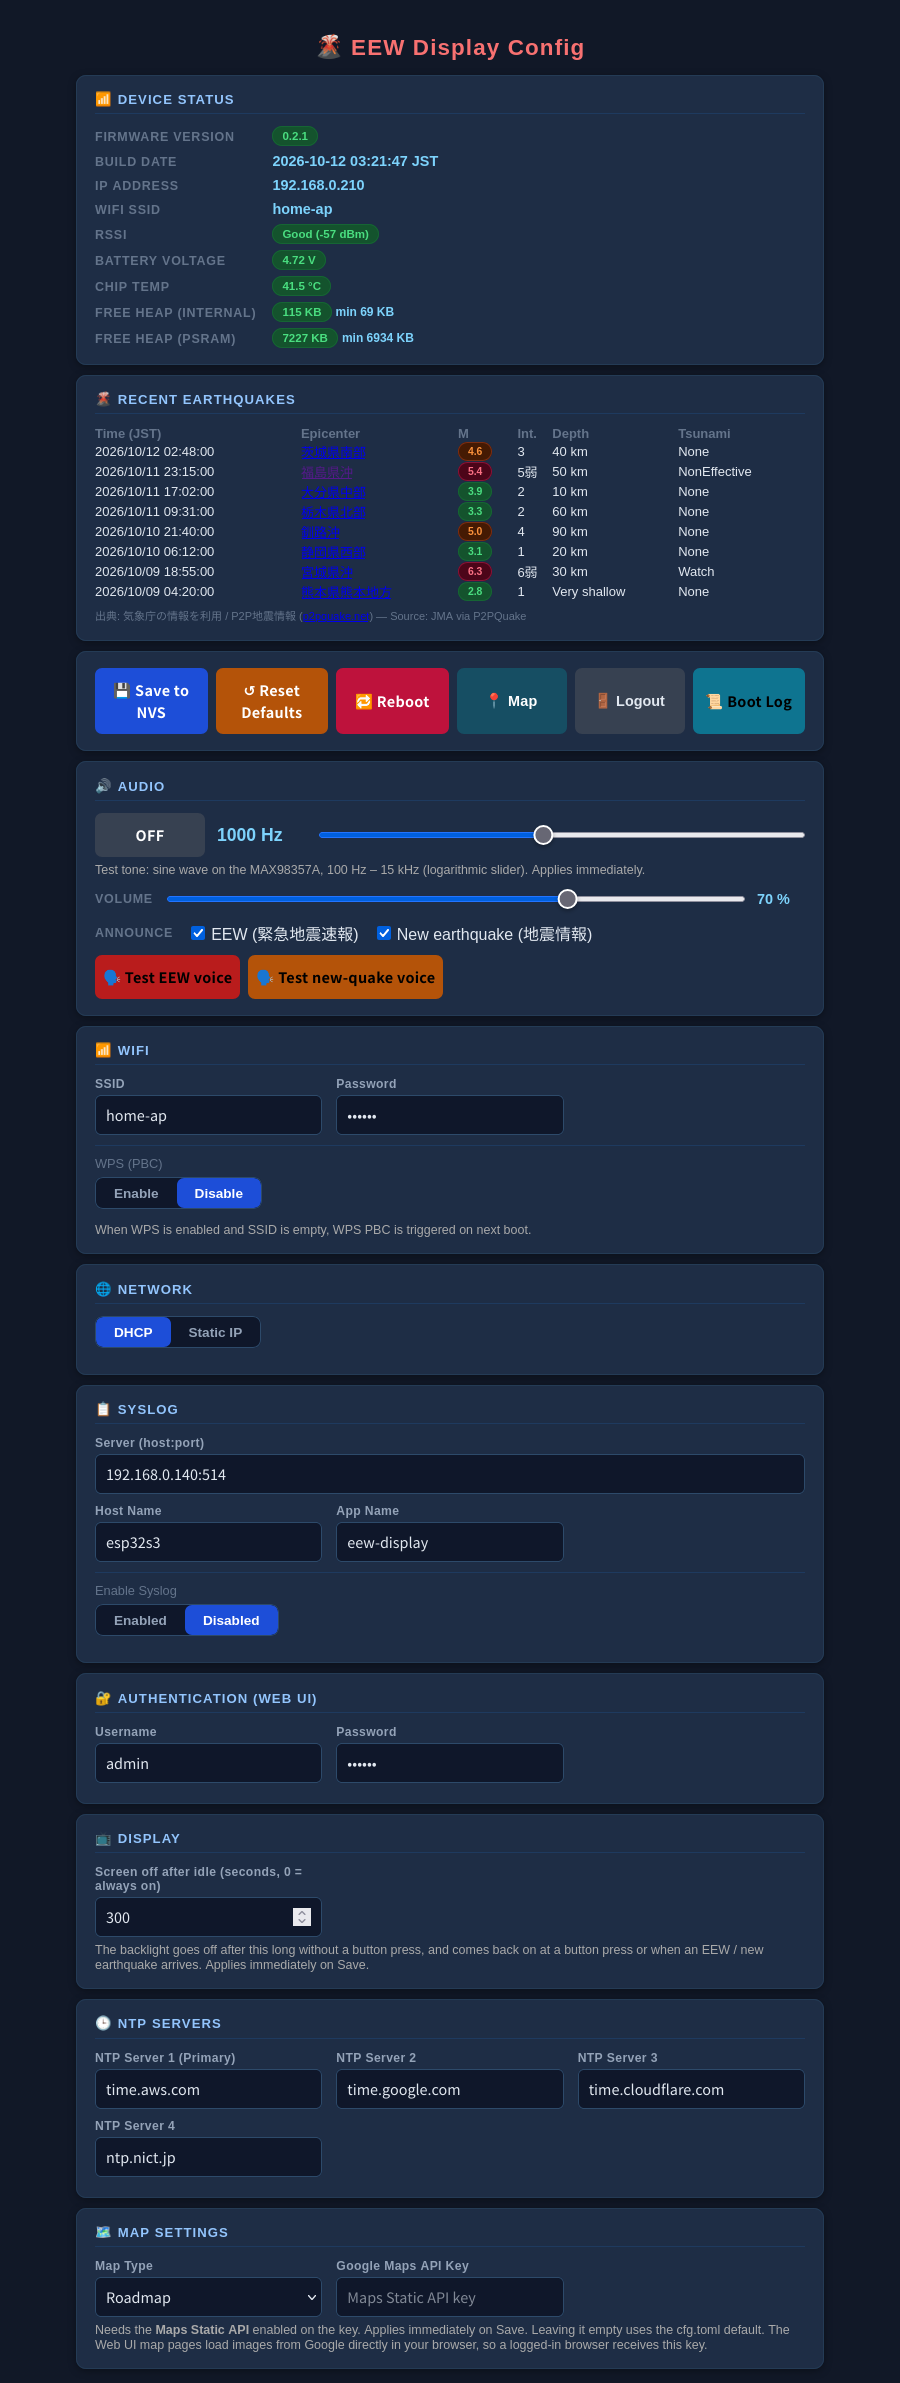
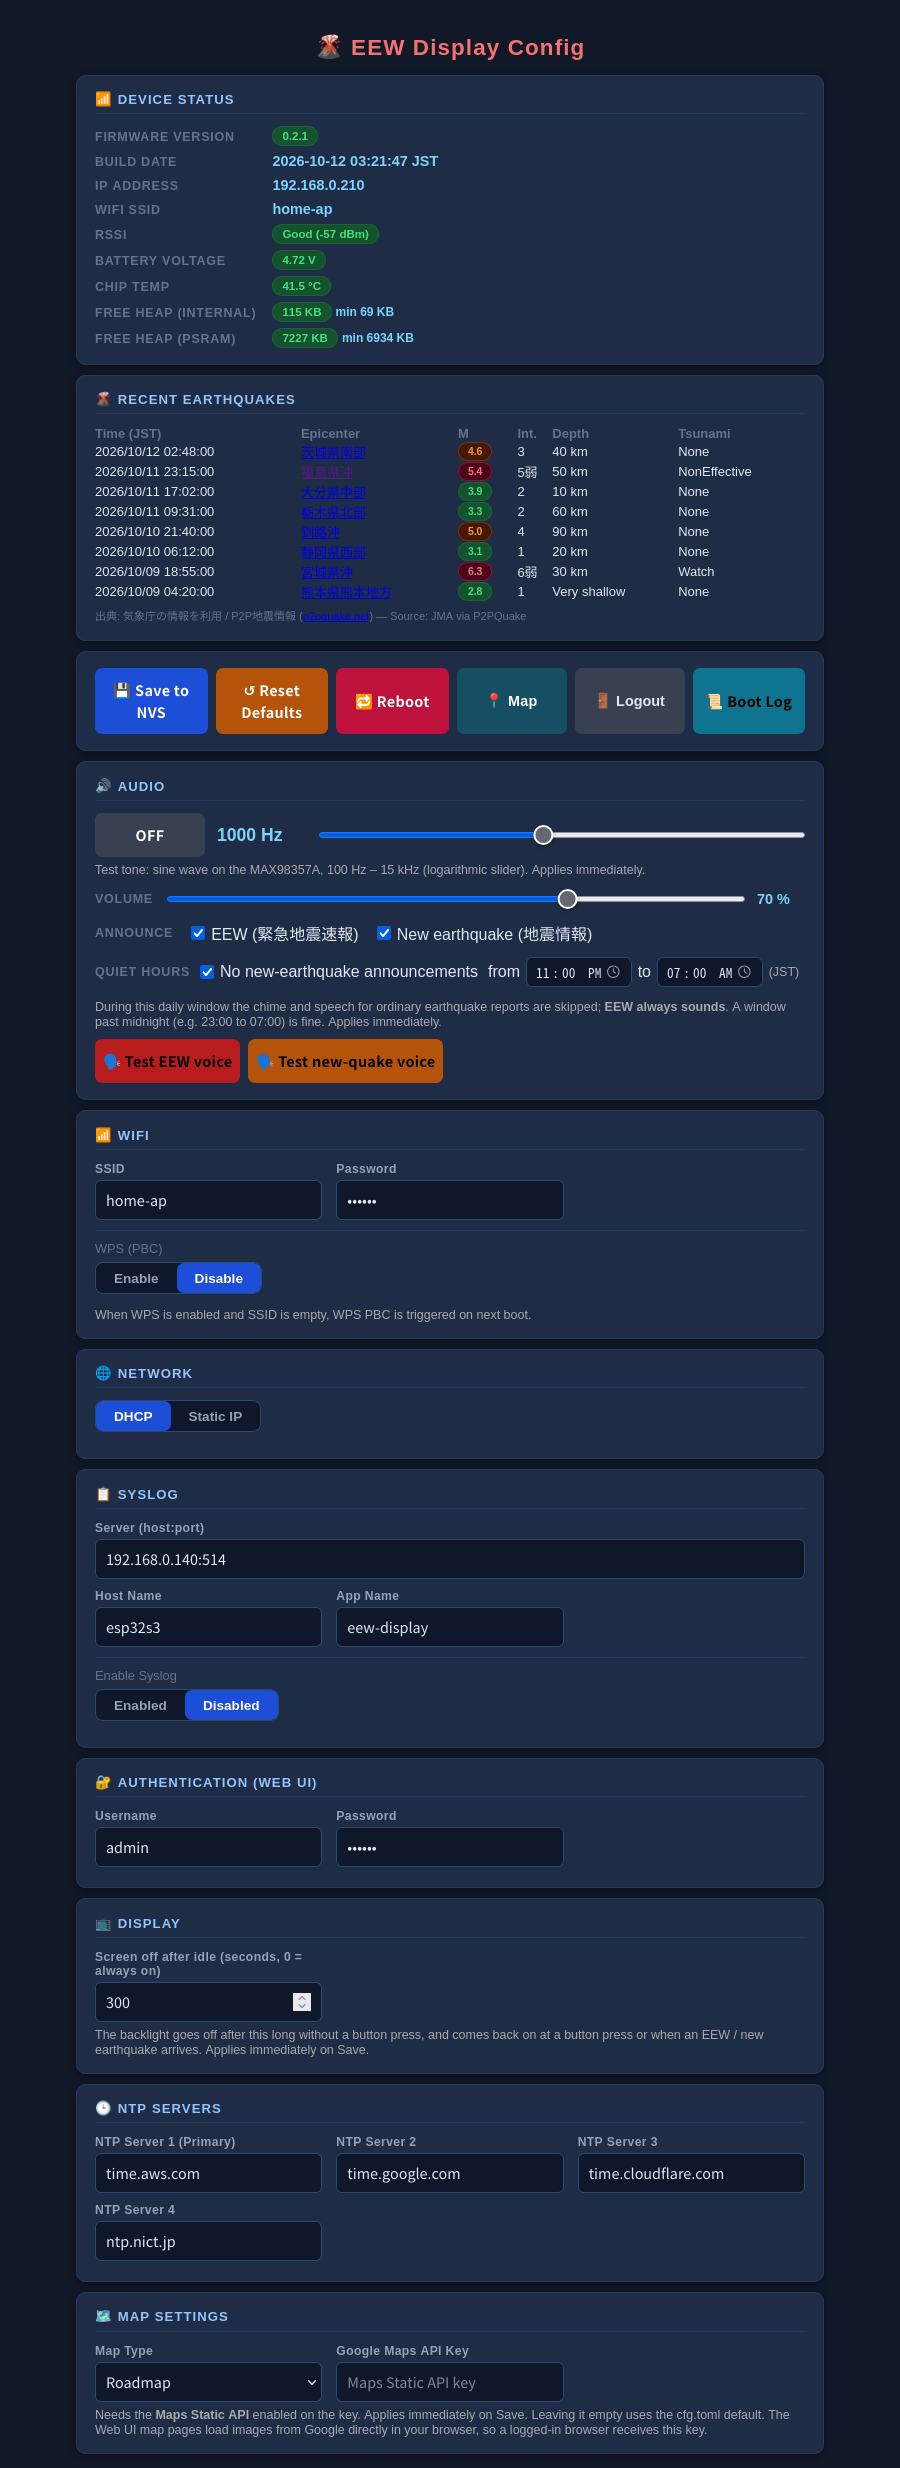
Add quiet hours for new-earthquake announcements (v0.2.2)
Daily JST window (Web UI / cfg.toml / NVS) muting ordinary announcements;
EEWs always sound. Update README, Web UI screenshots and capture script.

diff --git a/src/httpserver.rs b/src/httpserver.rs
@@ -39,6 +39,9 @@ pub struct NvsConfig {
     pub audio_volume: String,
     pub voice_eew: String,
     pub voice_new: String,
+    pub quiet_enable: String,
+    pub quiet_start: String,
+    pub quiet_end: String,
     pub wps_enable:    String,
     pub ntp_server1:   String,
     pub ntp_server2:   String,
@@ -108,6 +111,9 @@ fn nvs_write_all(cfg: &NvsConfig) -> bool {
             ("audio_volume", &cfg.audio_volume),
             ("voice_eew", &cfg.voice_eew),
             ("voice_new", &cfg.voice_new),
+            ("quiet_enable", &cfg.quiet_enable),
+            ("quiet_start", &cfg.quiet_start),
+            ("quiet_end", &cfg.quiet_end),
             ("wps_enable",    &cfg.wps_enable),
             ("ntp_server1",   &cfg.ntp_server1),
             ("ntp_server2",   &cfg.ntp_server2),
@@ -219,6 +225,9 @@ pub fn load_config(defaults: NvsConfig) -> NvsConfig {
         audio_volume: or(nvs_read("audio_volume"), &defaults.audio_volume),
         voice_eew: or(nvs_read("voice_eew"), &defaults.voice_eew),
         voice_new: or(nvs_read("voice_new"), &defaults.voice_new),
+        quiet_enable: or(nvs_read("quiet_enable"), &defaults.quiet_enable),
+        quiet_start: or(nvs_read("quiet_start"), &defaults.quiet_start),
+        quiet_end: or(nvs_read("quiet_end"), &defaults.quiet_end),
         wps_enable:    or(nvs_read("wps_enable"),    &defaults.wps_enable),
         ntp_server1:   or(nvs_read("ntp_server1"),   &defaults.ntp_server1),
         ntp_server2:   or(nvs_read("ntp_server2"),   &defaults.ntp_server2),
@@ -549,6 +558,17 @@ hr{{border:none;border-top:1px solid #1e3a5f;margin:10px 0}}
     <label style="display:flex;align-items:center;gap:6px;cursor:pointer"><input type="checkbox" id="notify-eew" onchange="notifySend()"> EEW (緊急地震速報)</label>
     <label style="display:flex;align-items:center;gap:6px;cursor:pointer"><input type="checkbox" id="notify-new" onchange="notifySend()"> New earthquake (地震情報)</label>
   </div>
+  <div id="quiet-row" style="display:none;margin-top:12px;gap:10px;flex-wrap:wrap;align-items:center">
+    <span class="stat-key">Quiet hours</span>
+    <label style="display:flex;align-items:center;gap:6px;cursor:pointer"><input type="checkbox" id="quiet-on" onchange="quietSend()"> No new-earthquake announcements</label>
+    <span style="display:flex;align-items:center;gap:6px">from
+      <input type="time" id="quiet-start" value="23:00" onchange="quietSend()" style="background:#0f172a;color:#e2e8f0;border:1px solid #2d4a6a;border-radius:6px;padding:4px 6px">
+      to
+      <input type="time" id="quiet-end" value="07:00" onchange="quietSend()" style="background:#0f172a;color:#e2e8f0;border:1px solid #2d4a6a;border-radius:6px;padding:4px 6px">
+      <span style="font-size:.78em;color:#aaa">(JST)</span></span>
+    <span id="quiet-now" class="badge badge-warn" style="display:none">quiet now</span>
+    <p style="width:100%;font-size:.78em;color:#aaa;margin:.2em 0 0">During this daily window the chime and speech for ordinary earthquake reports are skipped; <b>EEW always sounds</b>. A window past midnight (e.g. 23:00 to 07:00) is fine. Applies immediately.</p>
+  </div>
   <div id="voice-row" style="display:none;margin-top:10px;gap:8px;flex-wrap:wrap">
     <button type="button" class="btn" style="background:#b91c1c;flex:0 0 auto" onclick="toneSend('speak=eew')">&#x1F5E3; Test EEW voice</button>
     <button type="button" class="btn" style="background:#b45309;flex:0 0 auto" onclick="toneSend('speak=new')">&#x1F5E3; Test new-quake voice</button>
@@ -816,6 +836,11 @@ function notifySend() {{
   toneSend('notify_eew=' + document.getElementById('notify-eew').checked +
            '&notify_new=' + document.getElementById('notify-new').checked);
 }}
+function quietSend() {{
+  toneSend('quiet_enable=' + document.getElementById('quiet-on').checked +
+           '&quiet_start=' + document.getElementById('quiet-start').value +
+           '&quiet_end=' + document.getElementById('quiet-end').value);
+}}
 function toneToggle() {{ toneSend('on=' + (!toneOn)); }}
 fetch('/api/tone').then(r => r.json()).then(function(d) {{
   toneShow(d);
@@ -824,6 +849,11 @@ fetch('/api/tone').then(r => r.json()).then(function(d) {{
   if (d.running) {{
     document.getElementById('notify-eew').checked = d.notify_eew;
     document.getElementById('notify-new').checked = d.notify_new;
+    document.getElementById('quiet-on').checked = d.quiet_enable;
+    if (document.activeElement.id !== 'quiet-start') document.getElementById('quiet-start').value = d.quiet_start;
+    if (document.activeElement.id !== 'quiet-end') document.getElementById('quiet-end').value = d.quiet_end;
+    document.getElementById('quiet-now').style.display = d.quiet_now ? 'inline-block' : 'none';
+    document.getElementById('quiet-row').style.display = 'flex';
     document.getElementById('notify-row').style.display = 'flex';
     document.getElementById('vol-range').value = d.volume;
     document.getElementById('vol-val').textContent = d.volume + ' %';
@@ -1138,10 +1168,12 @@ pub fn start_http_server(state: ConfigState) -> anyhow::Result<EspHttpServer<'st
 
     // ── GET/POST /api/tone — audio test tone frequency / on-off (requires auth) ──
     fn tone_json() -> String {
-        format!(r#"{{"running":{},"hz":{},"on":{},"min":{},"max":{},"voice":{},"volume":{},"notify_eew":{},"notify_new":{}}}"#,
+        format!(r#"{{"running":{},"hz":{},"on":{},"min":{},"max":{},"voice":{},"volume":{},"notify_eew":{},"notify_new":{},"quiet_enable":{},"quiet_start":"{}","quiet_end":"{}","quiet_now":{}}}"#,
             crate::audio::running(), crate::audio::freq_hz(), crate::audio::enabled(),
             crate::audio::FREQ_MIN_HZ, crate::audio::FREQ_MAX_HZ, crate::voice::available(),
-            crate::audio::volume(), crate::voice::notify_eew(), crate::voice::notify_new())
+            crate::audio::volume(), crate::voice::notify_eew(), crate::voice::notify_new(),
+            crate::voice::quiet_enabled(), crate::voice::fmt_hhmm(crate::voice::quiet_start_min()),
+            crate::voice::fmt_hhmm(crate::voice::quiet_end_min()), crate::voice::quiet_now())
     }
     let state_tg = state.clone();
     server.fn_handler("/api/tone", Method::Get, move |request| {
@@ -1183,6 +1215,24 @@ pub fn start_http_server(state: ConfigState) -> anyhow::Result<EspHttpServer<'st
                 if is_eew { cfg.voice_eew = on.to_string(); } else { cfg.voice_new = on.to_string(); }
                 nvs_write_all(&cfg);
             }
+        }
+        // Quiet hours for new-earthquake announcements (EEW is never muted):
+        // any of quiet_enable / quiet_start / quiet_end ("HH:MM"), stored in NVS.
+        if form.contains_key("quiet_enable") || form.contains_key("quiet_start") || form.contains_key("quiet_end") {
+            let mut cfg = state_tp.config.lock().unwrap();
+            if let Some(v) = form.get("quiet_enable") { cfg.quiet_enable = (v == "true").to_string(); }
+            for (key, slot) in [("quiet_start", 0), ("quiet_end", 1)] {
+                if let Some(v) = form.get(key).and_then(|v| crate::voice::parse_hhmm(v)) {
+                    let t = crate::voice::fmt_hhmm(v);
+                    if slot == 0 { cfg.quiet_start = t; } else { cfg.quiet_end = t; }
+                }
+            }
+            crate::voice::set_quiet(
+                cfg.quiet_enable == "true",
+                crate::voice::parse_hhmm(&cfg.quiet_start).unwrap_or(23 * 60),
+                crate::voice::parse_hhmm(&cfg.quiet_end).unwrap_or(7 * 60),
+            );
+            nvs_write_all(&cfg);
         }
         // Voice volume (percent): applied at once; `save=1` also stores it in NVS.
         if let Some(vol) = form.get("volume").and_then(|v| v.trim().parse::<u32>().ok()) {

diff --git a/src/voice.rs b/src/voice.rs
@@ -15,7 +15,7 @@
 // SPDX-License-Identifier: MIT
 
 use std::ffi::CString;
-use std::sync::atomic::{AtomicBool, Ordering};
+use std::sync::atomic::{AtomicBool, AtomicU32, Ordering};
 use std::sync::OnceLock;
 use log::{info, warn};
 
@@ -62,6 +62,55 @@ pub fn notify_eew() -> bool { NOTIFY_EEW.load(Ordering::Relaxed) }
 pub fn notify_new() -> bool { NOTIFY_NEW.load(Ordering::Relaxed) }
 pub fn set_notify_eew(on: bool) { NOTIFY_EEW.store(on, Ordering::Relaxed); }
 pub fn set_notify_new(on: bool) { NOTIFY_NEW.store(on, Ordering::Relaxed); }
+
+// ─── Quiet hours ─────────────────────────────────────────────────────────────
+// A daily window (JST) in which NEW-EARTHQUAKE announcements are not played.
+// EEWs are never affected: they always sound.
+
+static QUIET_ON: AtomicBool = AtomicBool::new(false);
+/// Start / end of the window in minutes after midnight (JST).
+static QUIET_START: AtomicU32 = AtomicU32::new(23 * 60);
+static QUIET_END: AtomicU32 = AtomicU32::new(7 * 60);
+
+pub fn quiet_enabled() -> bool { QUIET_ON.load(Ordering::Relaxed) }
+pub fn quiet_start_min() -> u32 { QUIET_START.load(Ordering::Relaxed) }
+pub fn quiet_end_min() -> u32 { QUIET_END.load(Ordering::Relaxed) }
+pub fn set_quiet(on: bool, start_min: u32, end_min: u32) {
+    QUIET_START.store(start_min.min(1439), Ordering::Relaxed);
+    QUIET_END.store(end_min.min(1439), Ordering::Relaxed);
+    QUIET_ON.store(on, Ordering::Relaxed);
+}
+
+/// "HH:MM" → minutes after midnight (None if malformed / out of range).
+pub fn parse_hhmm(s: &str) -> Option<u32> {
+    let (h, m) = s.trim().split_once(':')?;
+    let (h, m): (u32, u32) = (h.trim().parse().ok()?, m.trim().parse().ok()?);
+    (h < 24 && m < 60).then_some(h * 60 + m)
+}
+
+/// Minutes → "HH:MM".
+pub fn fmt_hhmm(min: u32) -> String { format!("{:02}:{:02}", min / 60 % 24, min % 60) }
+
+/// Is `minute` (of the day) inside the window [start, end)? A window that runs
+/// past midnight (start > end, e.g. 23:00–07:00) is handled; start == end is an
+/// empty window.
+fn in_window(minute: u32, start: u32, end: u32) -> bool {
+    if start < end { minute >= start && minute < end }
+    else if start > end { minute >= start || minute < end }
+    else { false }
+}
+
+/// true if quiet hours are on and the time of day (JST) is inside the window.
+/// Before the clock has synced (NTP) the time is unknown, so it is NOT quiet:
+/// better an announcement at the wrong hour than a missed one.
+pub fn quiet_now() -> bool {
+    if !quiet_enabled() { return false; }
+    let secs = std::time::SystemTime::now().duration_since(std::time::UNIX_EPOCH)
+        .map(|d| d.as_secs()).unwrap_or(0);
+    if secs < 1_704_067_200 { return false; } // 2024-01-01: the clock is not set yet
+    let minute = ((secs + 9 * 3600) % 86_400 / 60) as u32;
+    in_window(minute, quiet_start_min(), quiet_end_min())
+}
 
 /// true if a voice bank was found and loaded.
 pub fn available() -> bool { BANK.get().is_some() }
@@ -304,9 +353,14 @@ pub fn speak_eew(e: &crate::quake::Eew) {
 }
 
 /// Announce a newly received earthquake: chime + sentence, once (dropped while
-/// an EEW is being played).
+/// an EEW is being played, and during the quiet hours — EEWs ignore those).
 pub fn speak_new(q: &crate::quake::Quake) {
     if !notify_new() { return; }
+    if quiet_now() {
+        info!("[VOICE] quiet hours ({}-{} JST): new-earthquake announcement skipped",
+              fmt_hhmm(quiet_start_min()), fmt_hhmm(quiet_end_min()));
+        return;
+    }
     let v = new_sentence(&q.name, q.mag, q.scale, q.depth, &q.tsunami);
     info!("[VOICE] new-earthquake announcement ({} segments, voice bank: {})", v.len(), available());
     crate::audio::play(v, false);

diff --git a/src/main.rs b/src/main.rs
@@ -78,6 +78,12 @@ pub struct Config {
     voice_eew: &'static str,
     #[default("true")]
     voice_new: &'static str,
+    #[default("false")]
+    quiet_enable: &'static str,
+    #[default("23:00")]
+    quiet_start: &'static str,
+    #[default("07:00")]
+    quiet_end: &'static str,
 }
 
 fn main() {
@@ -117,6 +123,9 @@ fn main() {
         audio_volume:  CONFIG.audio_volume.to_string(),
         voice_eew:     CONFIG.voice_eew.to_string(),
         voice_new:     CONFIG.voice_new.to_string(),
+        quiet_enable:  CONFIG.quiet_enable.to_string(),
+        quiet_start:   CONFIG.quiet_start.to_string(),
+        quiet_end:     CONFIG.quiet_end.to_string(),
         ntp_server1:   CONFIG.ntp_server1.to_string(),
         ntp_server2:   CONFIG.ntp_server2.to_string(),
         ntp_server3:   CONFIG.ntp_server3.to_string(),
@@ -171,6 +180,11 @@ fn main() {
         audio::set_volume(nvs_config.audio_volume.trim().parse().unwrap_or(70));
         voice::set_notify_eew(nvs_config.voice_eew != "false");
         voice::set_notify_new(nvs_config.voice_new != "false");
+        voice::set_quiet(
+            nvs_config.quiet_enable == "true",
+            voice::parse_hhmm(&nvs_config.quiet_start).unwrap_or(23 * 60),
+            voice::parse_hhmm(&nvs_config.quiet_end).unwrap_or(7 * 60),
+        );
         voice::init();
         audio::start(
             peripherals.i2s0,

diff --git a/tools/webui_screenshots/capture.py b/tools/webui_screenshots/capture.py
@@ -82,7 +82,8 @@ def api(eew, view):
         '/api/mapinfo': dict(has_map=True, version=1, center_lat=view[0], center_lon=view[1], center_valid=True, zoom=view[2]),
         '/api/mapkey': dict(api_key='sample', map_type='roadmap'),
         '/api/tone': dict(running=True, hz=1000, on=False, min=100, max=15000, voice=True, volume=70,
-                          notify_eew=True, notify_new=True),
+                          notify_eew=True, notify_new=True,
+                          quiet_enable=True, quiet_start='23:00', quiet_end='07:00', quiet_now=False),
         '/api/boot_log': dict(entries=['#14 PowerOn', '#13 Software', '#12 PowerOn']),
     }
 

diff --git a/README.md b/README.md
@@ -104,6 +104,20 @@ reconnecting, grey = the feed is switched off (`quake_enable`).  The chain is a
 16×16 bitmap kept as a constant in `src/display_pages.rs` (flash, no RAM), drawn
 pixel by pixel in the state colour.
 
+### Quiet hours (new-earthquake announcements)
+
+A daily window, in **JST**, in which ordinary new-earthquake announcements (chime
+and speech) are not played — e.g. 23:00 to 07:00 so that a night-time M3 does not
+wake the house.  **EEWs always sound**, whatever the window.  A window that runs
+past midnight is fine; start = end means an empty window.  The screen and the
+earthquake list are not affected, and until the clock has been synced by NTP the
+unit does not mute (a missed announcement is worse than one at the wrong hour).
+
+Set it under *Audio → Quiet hours* in the Web UI (applies immediately, stored in
+NVS), or with `quiet_enable` / `quiet_start` / `quiet_end` in `cfg.toml`.  The
+log says `quiet hours (23:00-07:00 JST): new-earthquake announcement skipped`
+when a report is muted.
+
 ### Screen saver
 
 `screen_timeout` (seconds; `0` = the screen stays on) switches the backlight off
@@ -210,7 +224,7 @@ With a MAX98357A fitted (`audio_enable = "true"`) the unit speaks:
 - **New earthquake** (pushed over the WebSocket, not the list loaded at boot): a
   "ピンポン" chime, then the sentence once:
   「地震情報。震源は茨城県南部です。マグニチュード4点6。最大震度4。深さ50キロ。この地震による津波の心配はありません。」
-  Dropped if an EEW is being spoken.
+  Dropped if an EEW is being spoken, and during the [quiet hours](#quiet-hours-new-earthquake-announcements) if set (EEWs ignore those).
 
 The chimes are generated by the firmware — sustained / bell-like notes with a
 reverb that is applied to the chime only, not to the speech — so they also sound
@@ -362,6 +376,7 @@ shipped `cfg.toml.tmp` template already sets `screen_timeout = "300"` and
 | `quake_enable` | `"true"` | You want to turn the earthquake / EEW feed off.  The feed keeps a TLS WebSocket open (~30 KB of internal RAM) and needs Wi-Fi plus a synced clock.  Read at boot only, so rebuild after changing it |
 | `audio_enable` | `"false"` | A MAX98357A is fitted: `"true"` starts the audio output (voice announcements + Web UI test tone) |
 | `audio_volume` / `voice_eew` / `voice_new` | `"70"` / `"true"` / `"true"` | Voice volume in percent, and whether EEWs / new earthquakes are announced.  The Web UI overrides these (stored in NVS) |
+| `quiet_enable` / `quiet_start` / `quiet_end` | `"false"` / `"23:00"` / `"07:00"` | Mute new-earthquake announcements (not EEW) between the two times of day, JST; see [Quiet hours](#quiet-hours-new-earthquake-announcements) |
 | `adc_conversion_factor` | `"80.098"` (template: `"437.98"`) | The battery voltage divider differs: voltage = raw ADC reading ÷ this factor |
 | `web_user` / `web_password` | `admin` / `esp32` | Always — these protect the Web UI |
 | `maps_api_key` | empty | You want the map (see [Google Maps API key](#google-maps-api-key)) |
@@ -401,6 +416,9 @@ audio_enable         = "true"    # MAX98357A: voice announcements + Web UI test 
 audio_volume         = "70"      # voice volume, percent (0-100)
 voice_eew            = "true"    # announce EEWs (chime + speech)
 voice_new            = "true"    # announce new earthquakes (chime + speech)
+quiet_enable         = "false"   # "true": no NEW-earthquake announcements between quiet_start and quiet_end (JST)
+quiet_start          = "23:00"
+quiet_end            = "07:00"
 
 maps_api_key = ""
 ```
@@ -710,7 +728,7 @@ the `cfg.toml` values, and *Boot Log* shows the reset reasons of the last boots.
 |------|--------------|
 | **Device Status** | Firmware version and build date, IP address, SSID, signal strength, battery voltage, chip temperature, free internal RAM and PSRAM (refreshed every 3 s) |
 | **Recent Earthquakes** | The latest events with the epicenter name in Japanese (a link to the Web UI map centred on it), magnitude, intensity, depth and tsunami status; a red banner while an EEW is active |
-| **Audio** | Test tone on/off with a 100 Hz – 15 kHz slider, **Volume** slider, **Announce** switches for EEW / new earthquake, and *Test EEW voice* / *Test new-quake voice* buttons (shown when `audio_enable = "true"`) |
+| **Audio** | Test tone on/off with a 100 Hz – 15 kHz slider, **Volume** slider, **Announce** switches for EEW / new earthquake, **Quiet hours** (a daily window with no new-earthquake announcements; EEW always sounds), and *Test EEW voice* / *Test new-quake voice* buttons (shown when `audio_enable = "true"`) |
 | **WiFi / Network** | SSID and password, WPS enable, DHCP or static IP |
 | **Syslog** | Optional remote logging (server, host name, app name) |
 | **Authentication** | The Web UI user name and password |
@@ -781,7 +799,7 @@ required: `web_user` / `web_password`).
 | `/api/reset` | POST | Erase NVS and restore cfg.toml defaults |
 | `/api/reboot` | POST | Reboot the device |
 | `/api/boot_log` | GET | Boot history with reset reasons from NVS (JSON) |
-| `/api/tone` | GET / POST | Audio state (running, tone Hz / on, voice bank present, volume, announcement switches).  POST any of: `hz=100..15000`, `on=true|false` (test tone); `speak=eew|new` (play a sample announcement); `volume=0..100` (`&save=1` also stores it in NVS); `notify_eew=true|false`, `notify_new=true|false` (stored in NVS).  Only with `audio_enable = "true"` |
+| `/api/tone` | GET / POST | Audio state (running, tone Hz / on, voice bank present, volume, announcement switches).  POST any of: `hz=100..15000`, `on=true|false` (test tone); `speak=eew|new` (play a sample announcement); `volume=0..100` (`&save=1` also stores it in NVS); `notify_eew=true|false`, `notify_new=true|false`, `quiet_enable=true|false`, `quiet_start=HH:MM`, `quiet_end=HH:MM` (stored in NVS).  Only with `audio_enable = "true"` |
 
 ---
 
